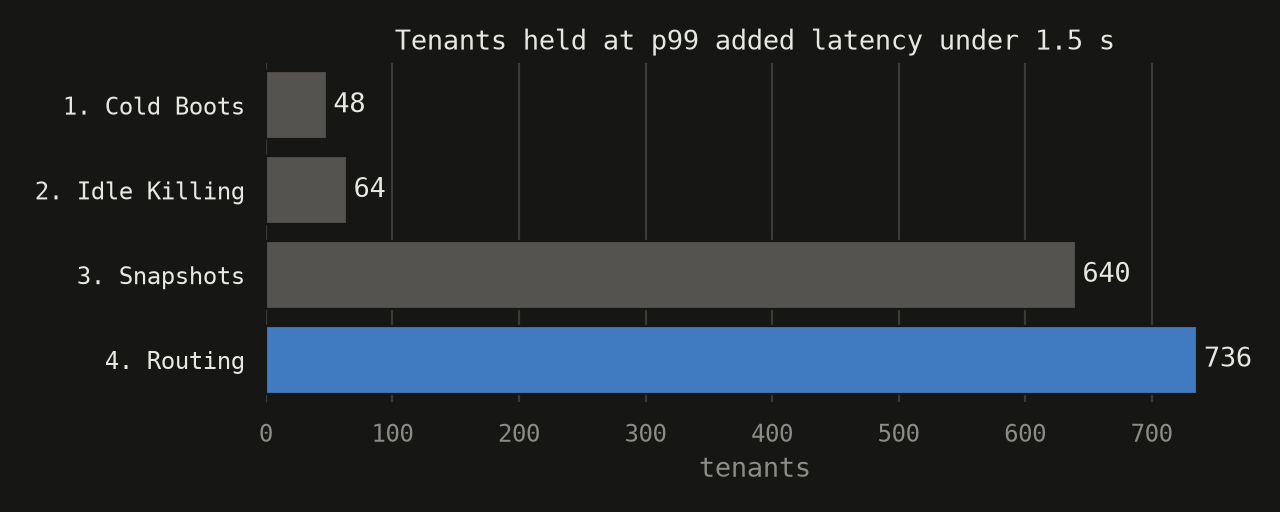
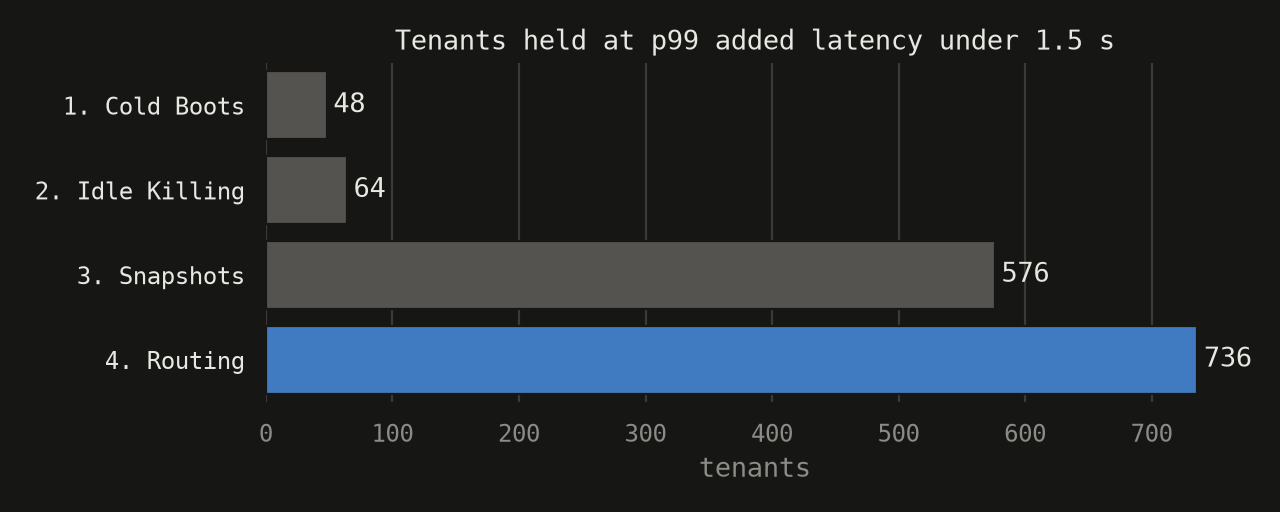
Use the measured limit of 576 tenants for Level 3
Reruns of the benchmark on Oct 27 without event recording show Level 3 holding 576 tenants on three seeds and failing 640 on all three, so the post says 576 and the caption of its video no longer needs an excuse. The numbers in the Level 3 and 4 text come from those runs: about 4,100 wakes with a median of 88 ms, 44% mean cpu against 46% for Level 4, and a gap of 160 tenants. The ladder and latency charts are redrawn from the same runs.

Changed region(s): [[0.75, 0.4688, 0.875, 0.625]]

diff --git a/posts/_virt.md b/posts/_virt.md
@@ -118,15 +118,15 @@ When a VM is released it is killed if the guest holds nothing outside the worksp
 A guest that really did install something, a `pip install` say, keeps a snapshot in two alternating slots, so a failed write never destroys the last good one.
 Snapshotting every released VM is the naive version, and at about 400 tenants it wrote 11 to 13 GiB and ran out of disk bandwidth.
 
-![576 tenants, shown below its limit of 640 because recording the run adds load. VMs come and go as tenants start and stop turns.](/img/virt-level3.gif)
+![576 tenants, Level 3 at its limit. VMs come and go as tenants start and stop turns.](/img/virt-level3.gif)
 
-This brings us from 64 to **640 tenants**. 
+This brings us from 64 to **576 tenants**. 
 
 Also as you can see comparing this demo's graphs to the prior graphs we are now CPU bound instead of memory bound.
 
-Most wakes are fast (median of 115 ms) but 640 tenants caused 4,590 wakes in six minutes, and when many land at once they queue up on the four cpu threads. 
+Most wakes are fast (median of 88 ms) but 576 tenants caused about 4,100 wakes in six minutes, and when many land at once they queue up on the four cpu threads. 
 
-That queueing is what pushes the p99 (the slowest 1 call in 100) up to 1.3 s and what causes runs to fail past ~640.
+That queueing is what pushes the p99 (the slowest 1 call in 100) up to about 1 s, and why runs fail ~576 tenants.
 
 ## Level 4: Routing
 
@@ -153,8 +153,8 @@ The orchestrator starts each command with `posix_spawn` and not `fork`, because 
 
 ![736 tenants on a 7 GiB laptop, replayed from real agent sessions at 8x](/img/virt-timelapse.gif)
 
-This routing now boosts us to **736 tenants**, 96 more than Level 3, which is less of a gain than you might expect for removing the whole micro-VM.
-At their limits Level 3 handles 640 tenants making 19,353 calls with 4,590 wakes at 51% mean cpu, and Level 4 handles 736 tenants making 22,328 calls with 1,777 wakes at 43%.
+This routing now boosts us to **736 tenants**, 160 more than Level 3, which is less of a gain than you might expect for removing the whole micro-VM.
+At their limits Level 3 handles 576 tenants making about 17,400 calls with about 4,100 wakes at 44% mean cpu, and Level 4 handles 736 tenants making about 22,100 calls with about 1,740 wakes at 46%.
 Routing removed most of the wakes, but as we've seen before the limit is set by bursts and not the average. When many tenants start a turn at once there are more wakes and Python test runs than the four cpu threads can run at once which can push the p99 past 1.5 seconds even though the machine itself is half idle.
 
 ## In Review
